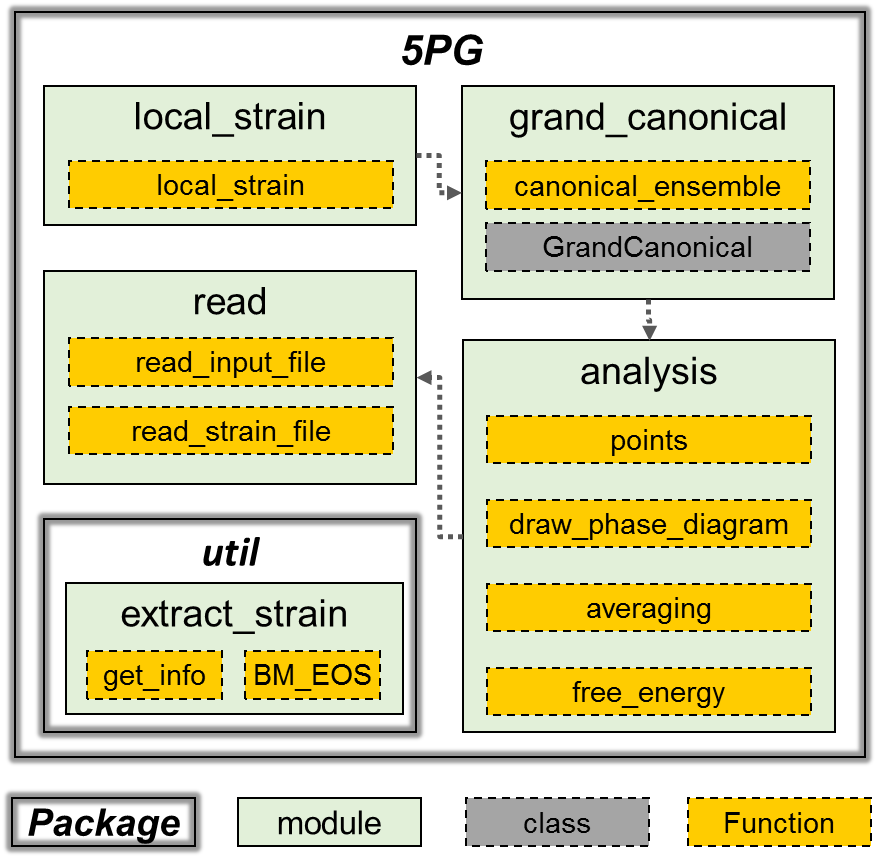
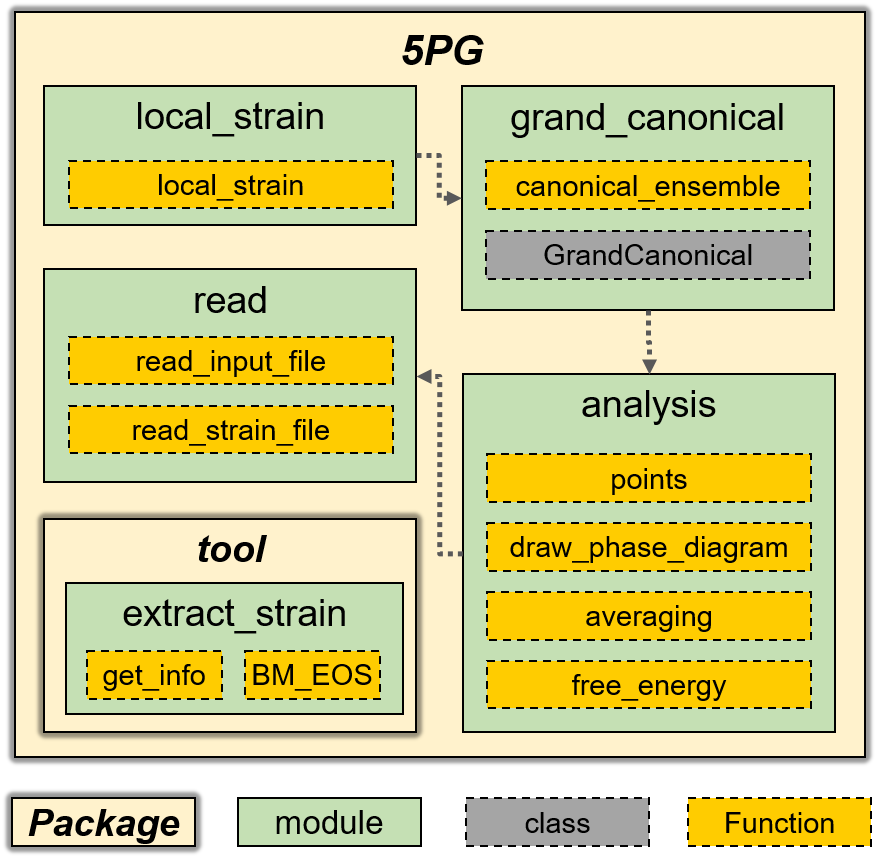
util->tool

diff --git a/docs/source/conf.py b/docs/source/conf.py
@@ -15,7 +15,7 @@ import sys
 
 #sys.path.insert(0, os.path.abspath('.'))
 sys.path.insert(0, os.path.abspath('../..'))
-sys.path.insert(0, os.path.abspath('../../util'))
+sys.path.insert(0, os.path.abspath('../../tool'))
 
 import mock
 MOCK_MODULES = ['numpy', 'scipy', 'matplotlib', 'matplotlib.pyplot', 'scipy.optimize']

diff --git a/docs/source/start/tutorial/preparation.rst b/docs/source/start/tutorial/preparation.rst
@@ -55,7 +55,7 @@ The grand canonical requires the strain energy induced by local compositional fl
 In this document, the strain induced by local compositional fluctuation is referred to as `local strain <../strain.html>`__.
 
 5PG approximates the local strain energy to Birch-Murnaghan equation of state using several parameters. 
-We provide the fitting tool ``util/extract_strain.py`` to generate ``BM_constant.dat`` from the OUTCAR of VASP. ``BM_constant.dat`` contains four parameters.
+We provide the fitting tool ``tool/extract_strain.py`` to generate ``BM_constant.dat`` from the OUTCAR of VASP. ``BM_constant.dat`` contains four parameters.
 
 :math:`B_0V_0 \ \ \ B'_0 \ \ \ 1 \ \ \ \frac{V_0(x=1)}{V_0(x=0)}`
 
@@ -63,7 +63,7 @@ We provide the fitting tool ``util/extract_strain.py`` to generate ``BM_constant
 
 The first and second values are V_0 B_0 and B_0^', respectively. Fourth value over third value should be the :math:`V_0(x=1)` divided by :math:`V_0(x=0)`, which limits V/V0 to be calculated.
 
-.. include:: util.rst
+.. include:: tool.rst
 
 .. note::
 

diff --git a/docs/source/start/tutorial/util.rst b/docs/source/start/tutorial/util.rst
@@ -1,17 +1,17 @@
-util/extract_strain
+tool/extract_strain
 ~~~~~~~~~~~~~~~~~~~
 
-**5PG** provides ``util/extract_strain.py``, which is a code for extracting parameters for local strain from the ``OUTCAR`` of **VASP**.
+**5PG** provides ``tool/extract_strain.py``, which is a code for extracting parameters for local strain from the ``OUTCAR`` of **VASP**.
 
 The basic command to extract the parameters for local strain from the OUTCAR of **VASP**.
 
 ::
 
- $ python /dir/to/5PG/util/extract_strain.py atomA atomB
+ $ python /dir/to/5PG/tool/extract_strain.py atomA atomB
 
 We provide an example for testing a command at `example/strain <https://github.com/Han-Gyuseung/5PG/tree/main/example/strain>`_.
 The materials for example is GaAs\ :sub:`x`\ Sb\ :sub:`1-x`\ . For the test with example, the command become:
 
 ::
 
- $ python /dir/to/5PG/util/extract_strain.py As Sb
+ $ python /dir/to/5PG/tool/extract_strain.py As Sb

diff --git a/docs/source/modules/architecture.rst b/docs/source/modules/architecture.rst
@@ -3,7 +3,7 @@ Architecture
 
 .. image:: ../_static/architecture.png
 
-**5PG** is composed of read.py, local_strain.py, analysis.py, phase_diagram.py, and util/extract_strain.py.
+**5PG** is composed of four modules (read.py, local_strain.py, analysis.py, and phase_diagram.py) and one script tool/extract_strain.py.
 
 .. toctree::
     :maxdepth: 1
@@ -13,4 +13,4 @@ Architecture
     analysis
     grand_canonical
     local_strain
-    util
+    tool

diff --git a/docs/source/start/download.rst b/docs/source/start/download.rst
@@ -13,7 +13,7 @@ Prepare the following Python libraries:
 * `scipy <https://www.scipy.org/>`_ [optional] 
 
 .. Note::
- The **scipy** is only required for obtaining fitting parameters of local strain energy using ``util/extract_strain.py``
+ The **scipy** is only required for obtaining fitting parameters of local strain energy using ``tool/extract_strain.py``
 
 
 

diff --git a/docs/source/modules/tool.rst b/docs/source/modules/tool.rst
@@ -1,4 +1,4 @@
-util
+tool
 ================
 
 .. automodule:: extract_strain
